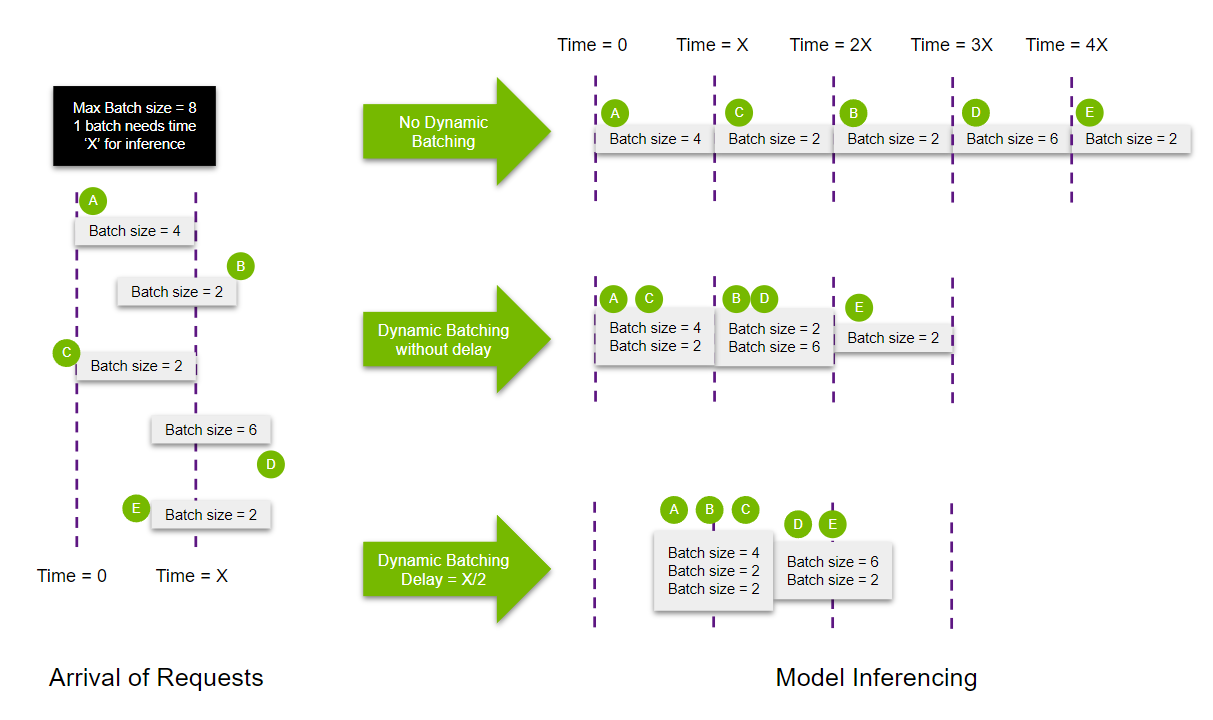
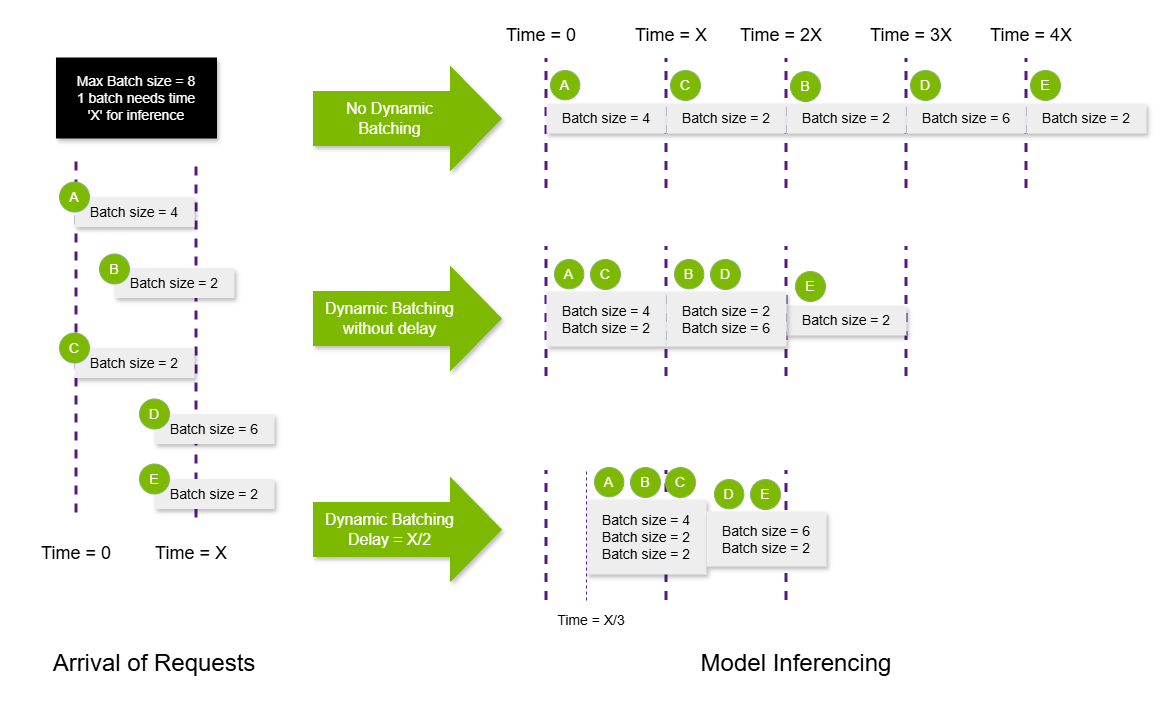
docs: correct dynamic batching visualization and timings
Updated diagram PNGs to accurately reflect dynamic batching
behavior. Inference triggers immediately upon reaching
'max_batch_size', rather than waiting for the timeout
Adjusted launching time in the README to match the corrected
visual flow.

diff --git a/Conceptual_Guide/Part_2-improving_resource_utilization/README.md b/Conceptual_Guide/Part_2-improving_resource_utilization/README.md
@@ -79,7 +79,7 @@ Let's take the previous example and discuss the effect of adding multiple models
 
 For a "no dynamic batching" case, as there are two models to execute, the queries are distributed equally. Users can also add [priorities](https://github.com/triton-inference-server/server/blob/main/docs/user_guide/model_configuration.md#priority) to prioritize or de-prioritize any specific instance group.
 
-When considering the case of multiple instances with dynamic batches enabled, the following happens. Owing to the availability of another instance, query `B` which arrives with some delay can be executed using the second instance. With some delay allocated, instance 1 gets filled and launched by time `T = X/2` and since queries `D` and `E` stack up to fill up to the maximum batch size, the second model can start inference without any delay.
+When considering the case of multiple instances with dynamic batches enabled, the following happens. Owing to the availability of another instance, query `B` which arrives with some delay can be executed using the second instance. With some delay allocated, instance 1 gets filled and launched by time `T = X/3` and since queries `D` and `E` stack up to fill up to the maximum batch size, the second model can start inference without any delay.
 
 The key takeaway from the above examples is that the Triton Inference Server provides flexibility with respect to policies related to creating more efficient batching, thus enabling better resource utilization, resulting in reduced latency and increased throughput.
 